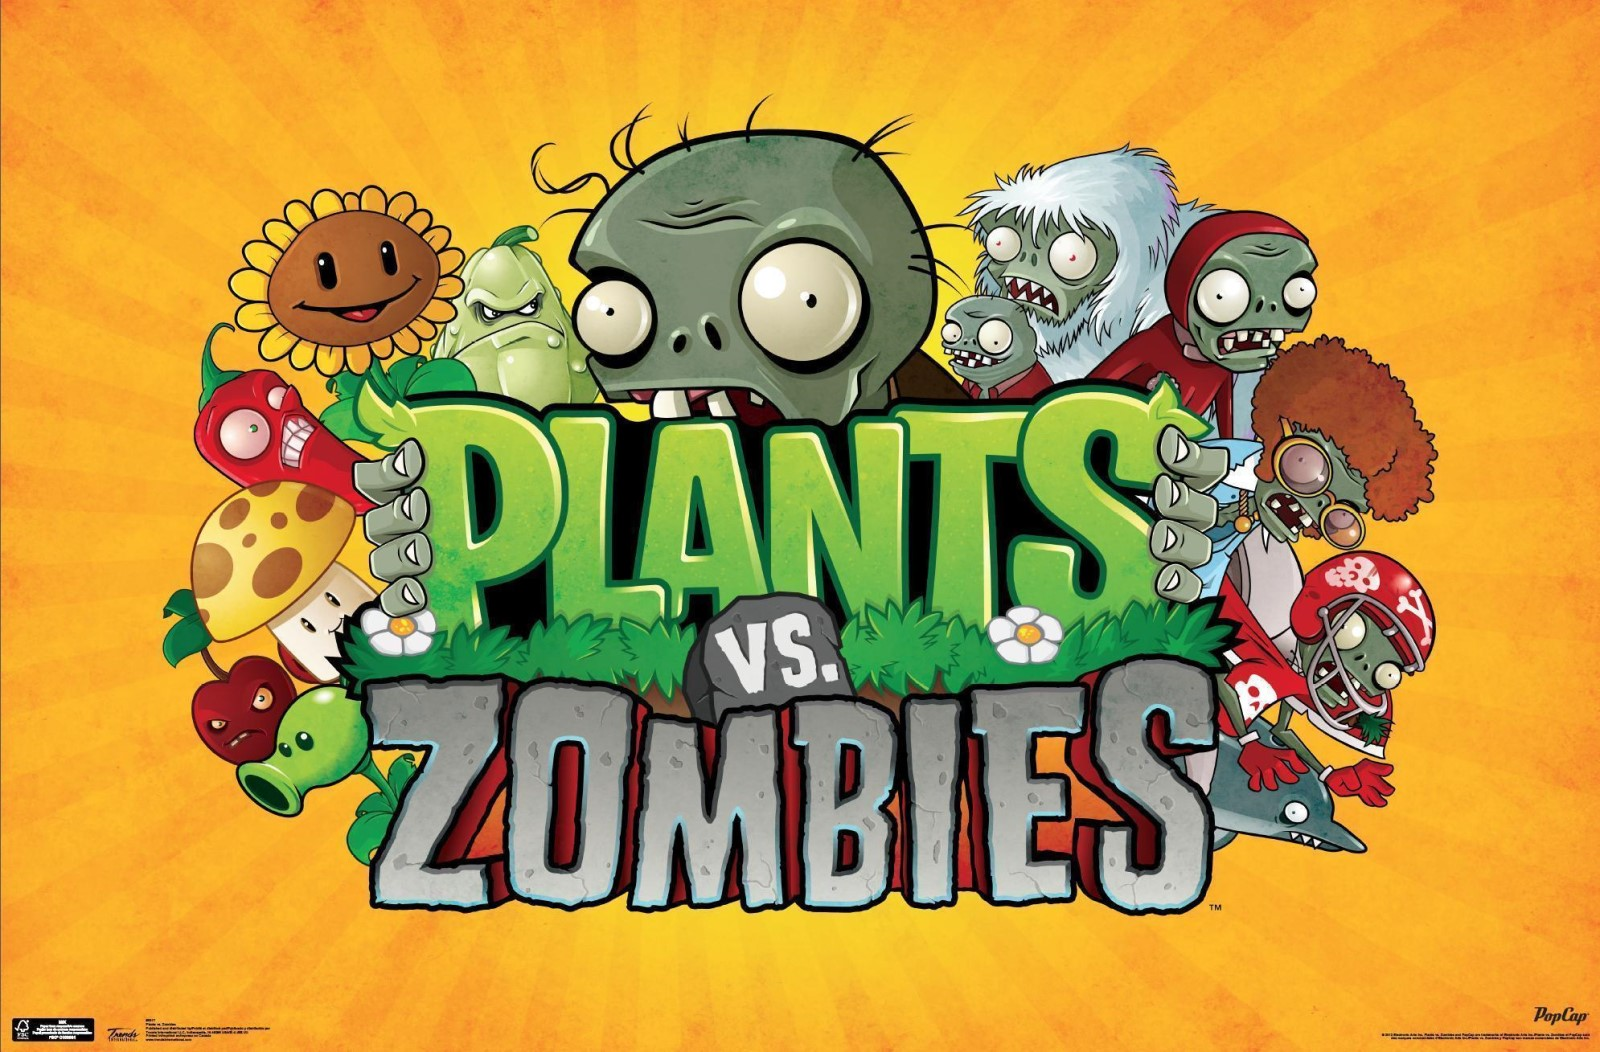
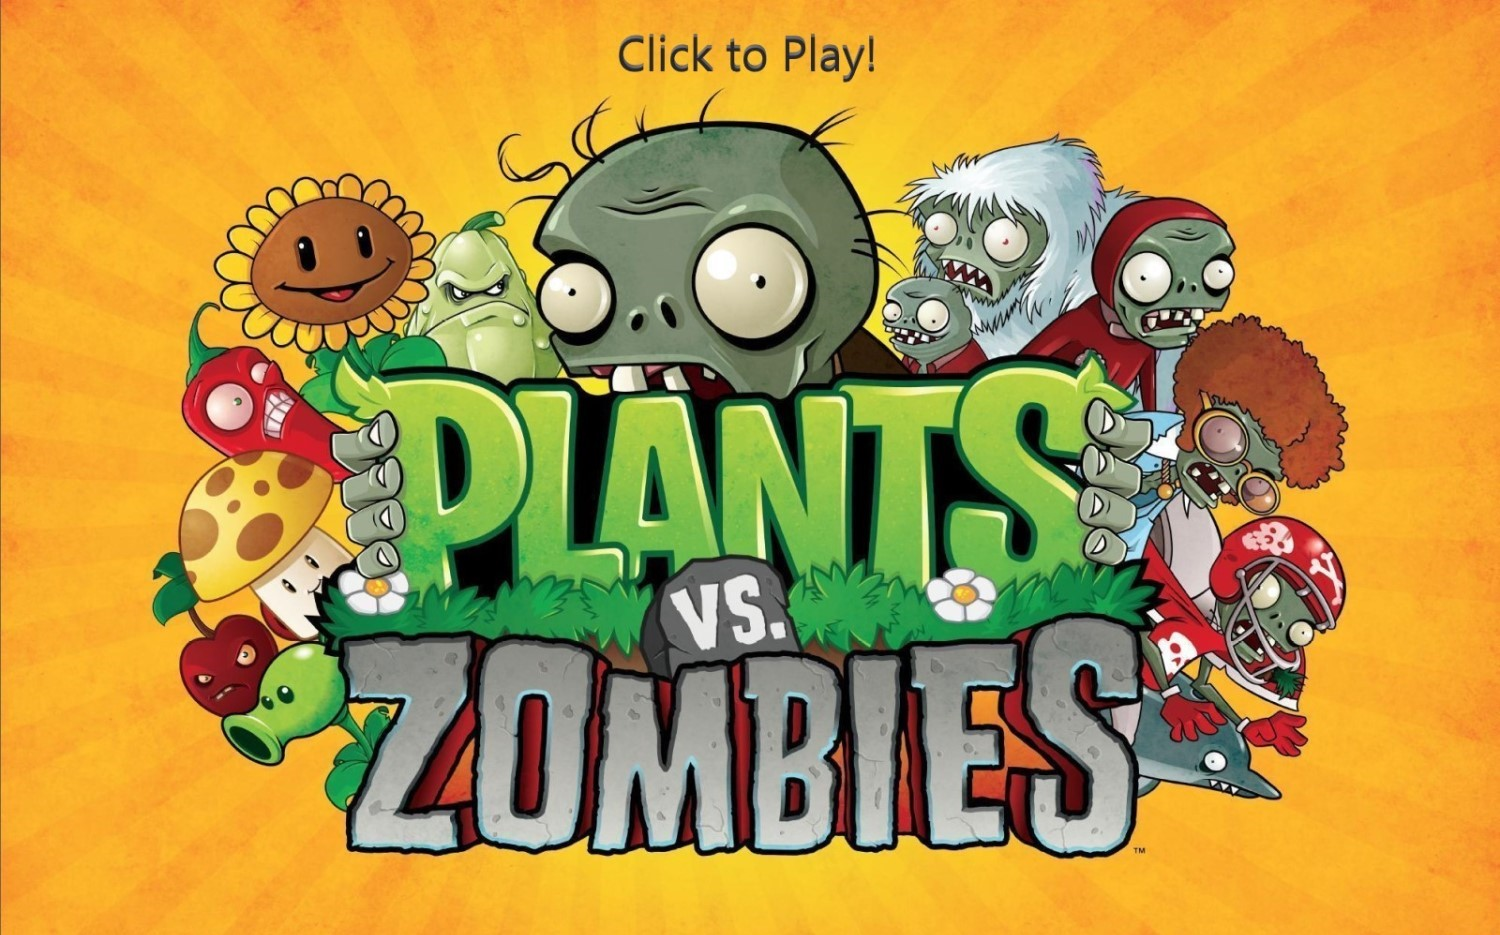
Fixed start page picture and close operation.

diff --git a/Milestone 4/src/view/MainMenu.java b/Milestone 4/src/view/MainMenu.java
@@ -23,8 +23,8 @@ public class MainMenu extends JFrame{
      */
     public MainMenu() {
         setTitle("Plants VS. Zombies");
-        setSize(1600, 1000);
-
+        setSize(1600, 970);
+        setDefaultCloseOperation(EXIT_ON_CLOSE);
         startButton = new JButton( new ImageIcon(getClass().getResource("/Images/StartPage.jpg")));
         add(startButton);
         setVisible(true);
